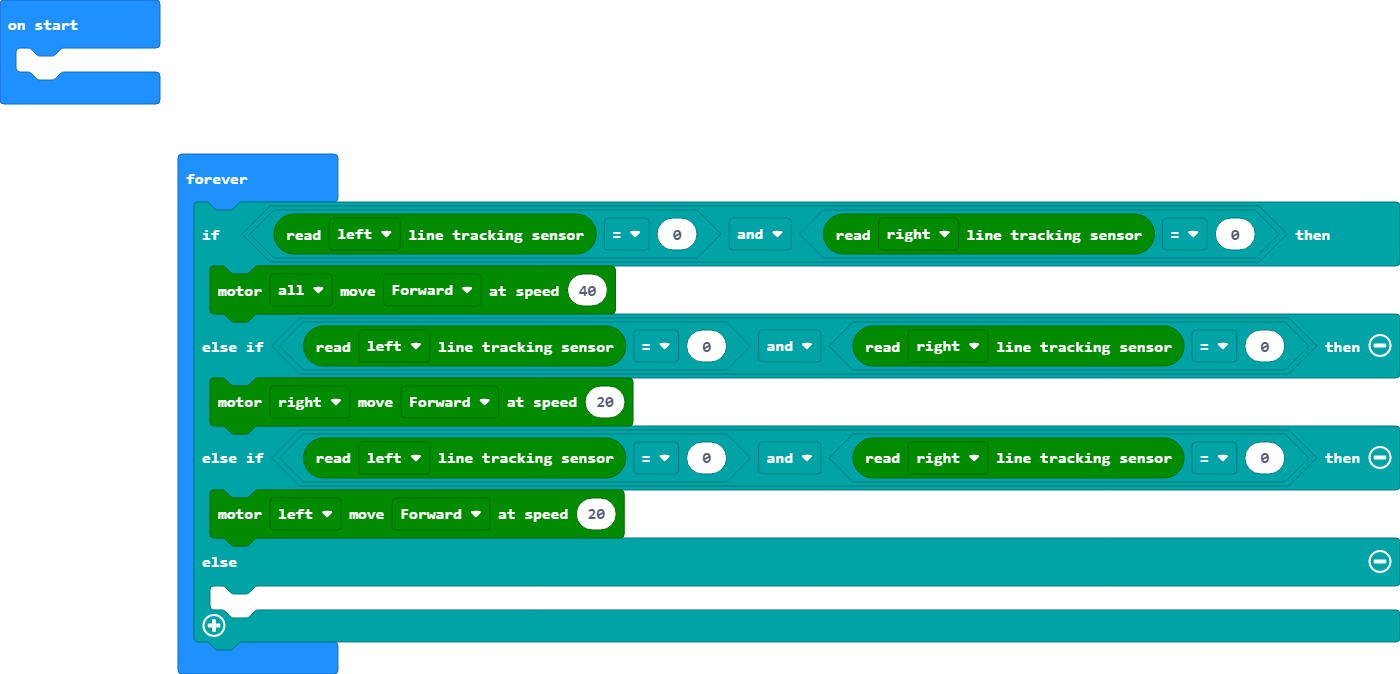
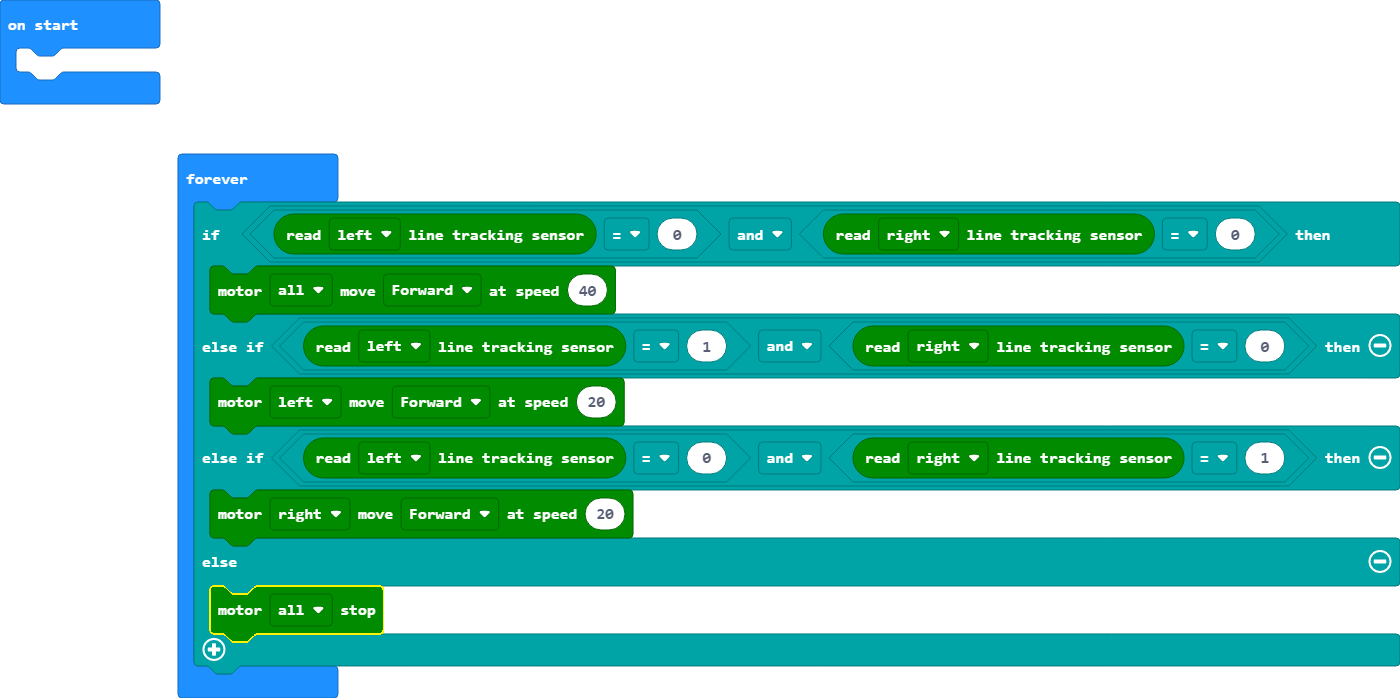
Update main.blocks, main.ts

Changed region(s): [[0.1229, 0.2181, 1.0, 0.9659], [0.0, 0.0312, 0.1229, 0.1558]]

diff --git a/main.ts b/main.ts
@@ -1,11 +1,11 @@
 basic.forever(function () {
     if (maqueen.readPatrol(maqueen.Patrol.PatrolLeft) == 0 && maqueen.readPatrol(maqueen.Patrol.PatrolRight) == 0) {
         maqueen.motorRun(maqueen.Motors.All, maqueen.Dir.CW, 40)
-    } else if (maqueen.readPatrol(maqueen.Patrol.PatrolLeft) == 0 && maqueen.readPatrol(maqueen.Patrol.PatrolRight) == 0) {
-        maqueen.motorRun(maqueen.Motors.M2, maqueen.Dir.CW, 20)
-    } else if (maqueen.readPatrol(maqueen.Patrol.PatrolLeft) == 0 && maqueen.readPatrol(maqueen.Patrol.PatrolRight) == 0) {
+    } else if (maqueen.readPatrol(maqueen.Patrol.PatrolLeft) == 1 && maqueen.readPatrol(maqueen.Patrol.PatrolRight) == 0) {
         maqueen.motorRun(maqueen.Motors.M1, maqueen.Dir.CW, 20)
+    } else if (maqueen.readPatrol(maqueen.Patrol.PatrolLeft) == 0 && maqueen.readPatrol(maqueen.Patrol.PatrolRight) == 1) {
+        maqueen.motorRun(maqueen.Motors.M2, maqueen.Dir.CW, 20)
     } else {
-    	
+        maqueen.motorStop(maqueen.Motors.All)
     }
 })
